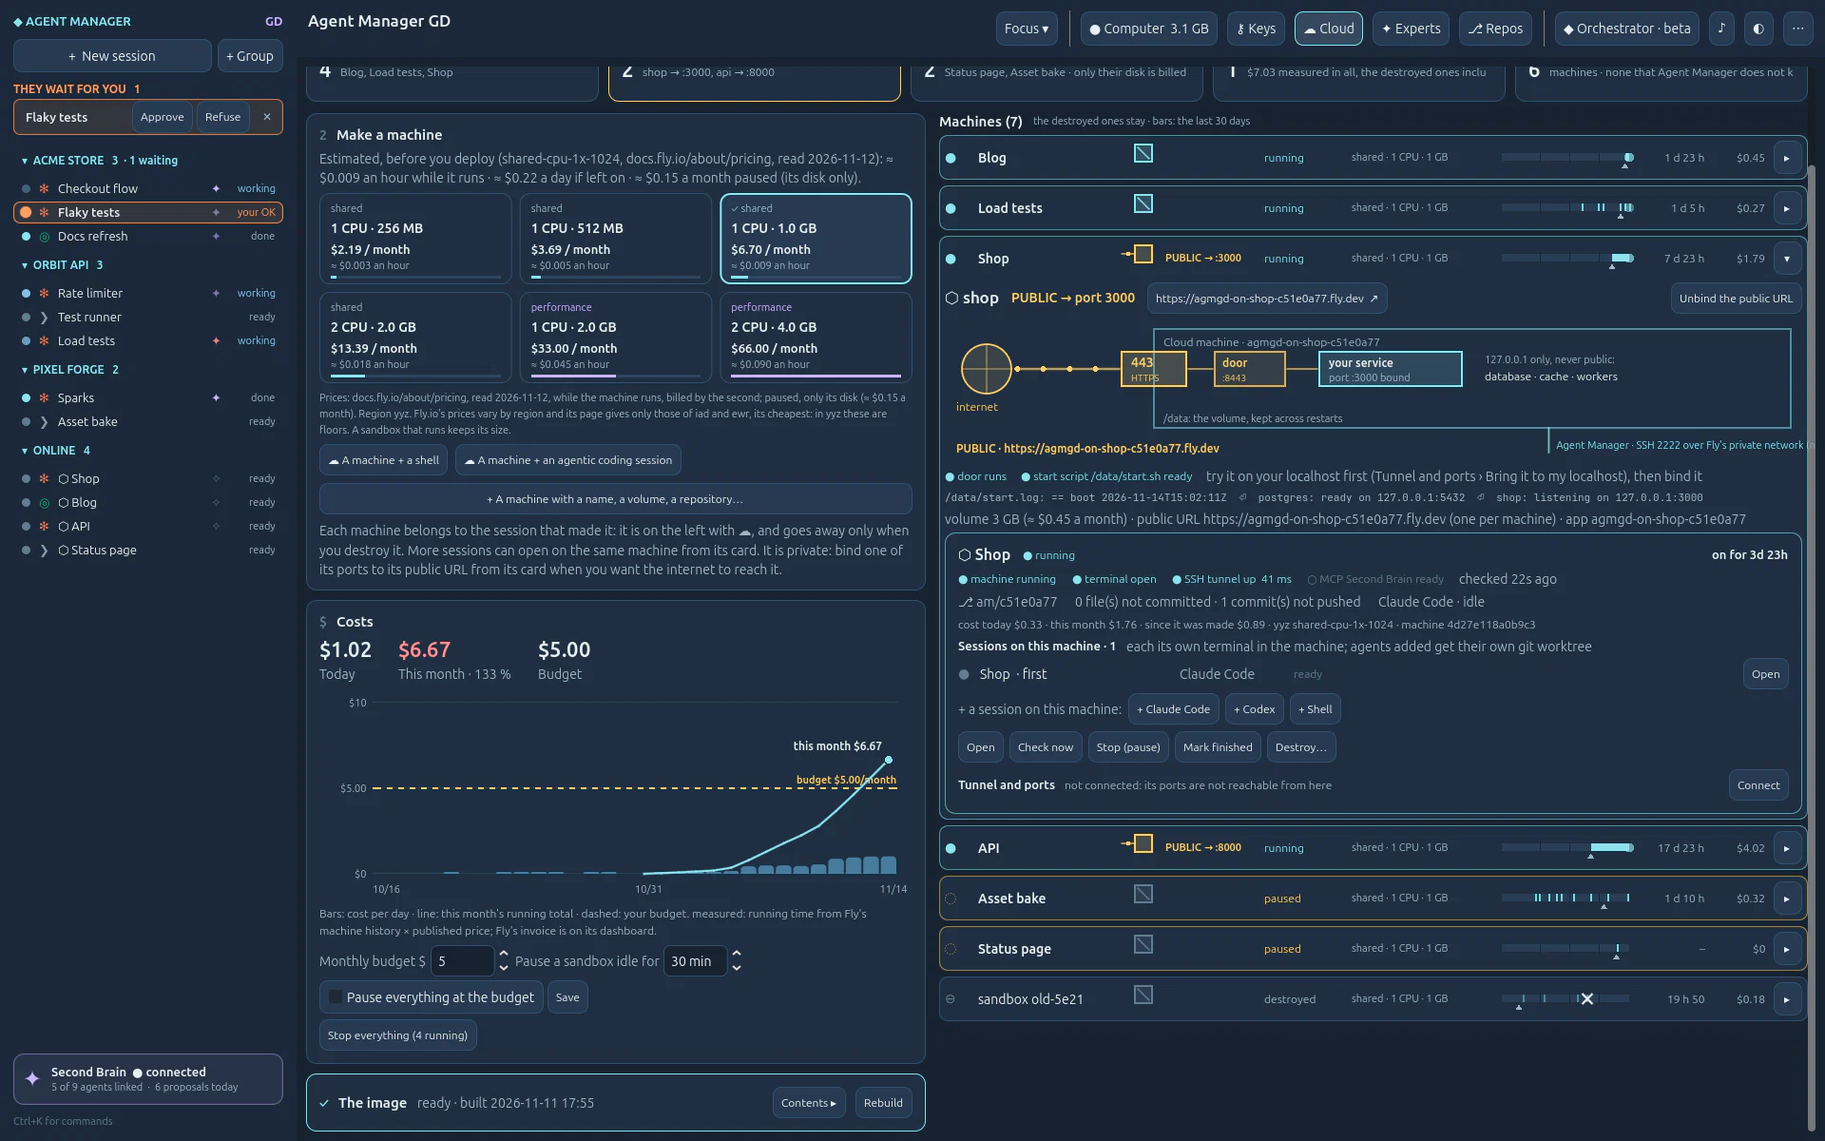
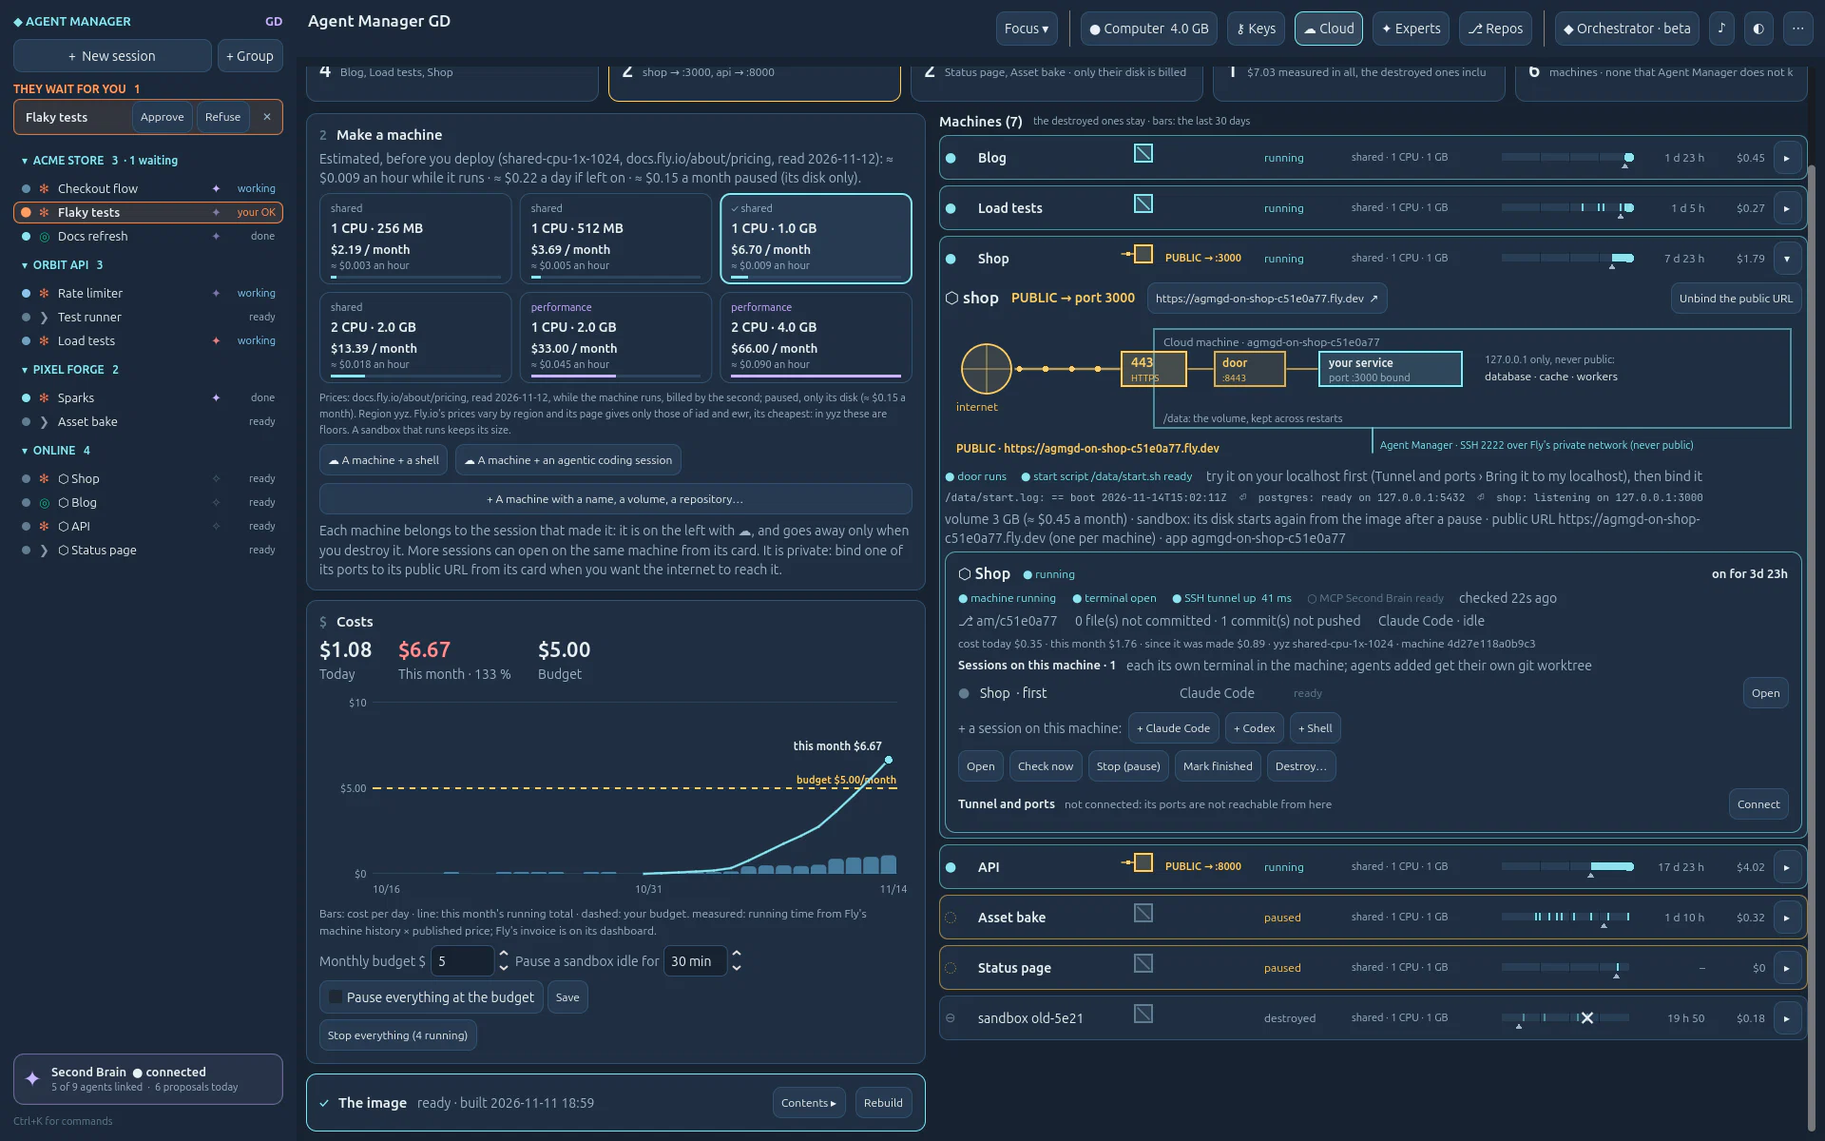
Persistent or sandbox, chosen when a machine is made (owner: « Est-ce que c'est persistant ou c'est sandbox? »)
A persistent machine keeps its whole disk across a pause (Fly.io's --rootfs-persist always); a sandbox starts again
from the image. Tried on Fly.io on 2026-11-14 through the app: the persistent one kept a file across stop/start, the
sandbox lost it.

Claude-Session: https://claude.ai/code/session_011X21YaGPg54jYcFs25zcRq

Changed region(s): [[0.5, 0.4317, 1.0, 0.925], [0.75, 0.37, 0.9688, 0.4008], [0.9375, 0.4625, 1.0, 0.5242]]

diff --git a/public/docs.html b/public/docs.html
@@ -420,7 +420,7 @@
           <tr><td><code>session_status</code></td><td>working, waits, asks, done</td><td>any session</td></tr>
           <tr><td><code>read_screen</code></td><td>what a terminal shows now</td><td>any session</td></tr>
           <tr><td><code>list_machines</code></td><td>every cloud machine: state, sessions, whether a port is bound to its public URL (and which), « yours »</td><td>all machines</td></tr>
-          <tr><td><code>create_machine</code></td><td>asks you for a cloud machine, without a volume (a sandbox) or with one (for a service): repository, size, name, expert, secrets it holds; waits for your answer; its first session is the agent's child</td><td>on your approval</td></tr>
+          <tr><td><code>create_machine</code></td><td>asks you for a cloud machine, without a volume (a sandbox) or with one (for a service), persistent or not: repository, size, name, expert, secrets it holds; waits for your answer; its first session is the agent's child</td><td>on your approval</td></tr>
           <tr><td><code>destroy_machine</code>, <code>expose_machine</code></td><td>ask you to destroy one, or to bind one of its ports (<code>port</code>) to its public URL; wait for your answer</td><td>its own machines, on your approval</td></tr>
           <tr><td><code>stop_machine</code>, <code>start_machine</code>, <code>unexpose_machine</code>, <code>machine_status</code></td><td>pause, start again (within the budget), unbind its public URL, read one machine or a request</td><td>its own machines, at once</td></tr>
           <tr><td><code>list_experts</code></td><td>the experts: what they know, the tool, the secrets they need</td><td>the owner's experts</td></tr>
@@ -463,7 +463,8 @@
             when private), the door 8443, your service and its port, what stays private, and Agent Manager's own way in
             from below. A machine's line shows its gate and <b>PUBLIC → :port</b>; the tiles count the public URLs.</li>
           <li><b>Machines for a service</b>: <b>+ A machine with a name, a volume, a repository…</b> (☁ Cloud, step 2)
-            takes a name (in its address, optional), a volume in GB (0: none), its size (the smallest first, with its
+            takes a name (in its address, optional), a volume in GB (0: none), its disk (<b>Sandbox</b> or
+            <b>Persistent</b>, below), its size (the smallest first, with its
             price), a connected repository (cloned with its own deploy key), an expert, the secrets of Keys › Secrets
             the machine gets, and the tool of its first session. With a volume, <code>/data</code> lasts (about $0.15 per
             GB a month; its work in <code>/data/work</code>), the agent writes <code>/data/start.sh</code>, which runs at
@@ -714,10 +715,13 @@
           past 80 %, no new sandbox at 100 %) and two caps you can turn on that only <i>pause</i>: a sandbox idle for N
           minutes, or all of them once the budget is reached. <b>Stop everything</b> pauses every running sandbox.</p>
         <div class="note warn">Seen on Fly.io on 2026-11-14: a paused machine that starts again has the disk of its
-          image again. What was on it, outside a volume, is gone: the clone, files not committed, programs started. Only
+          image again, unless it is persistent (below). What was on it, outside a volume, is gone: the clone, files not committed, programs started. Only
           a machine's volume (<code>/data</code>) is kept. Commit and push before you pause one, or before an idle pause
           could come. Fly.io can keep the whole disk too (its <code>--rootfs-persist</code> setting, tried once on a test
-          machine: a file stayed across a stop and a start); Agent Manager does not use it yet.</div>
+          machine: a file stayed across a stop and a start). So you choose it when you make a machine (☁ Cloud, step 2):
+          <b>Sandbox</b>, its disk starts again from the image after a pause (the default, and what <i>New session › a
+          cloud sandbox</i> makes); <b>Persistent</b>, its whole disk is kept across pauses. The card says which one a
+          machine is. Fly.io bills a paused machine's disk either way; whether keeping it costs more was not checked.</div>
         <div class="note warn">Agent Manager never destroys a sandbox on its own. <b>Destroy</b> is yours, confirmed,
           after it showed the work not pushed. Machines it does not know are listed, never touched unless you destroy
           them.</div>

diff --git a/engine/sandboxes.py b/engine/sandboxes.py
@@ -94,7 +94,11 @@ ONLINE_PREFIX = "agmgd-on-"
 # private; Online machines made before keep their door 443 → their port.
 DOOR_PORT = 8443
 SANDBOX_PREFIX = "agmgd-sb-"
-DOOR_COLUMNS = [("door", "INTEGER NOT NULL DEFAULT 0"), ("own_app", "INTEGER NOT NULL DEFAULT 0")]
+DOOR_COLUMNS = [("door", "INTEGER NOT NULL DEFAULT 0"), ("own_app", "INTEGER NOT NULL DEFAULT 0"),
+                # Loop 48, after the live test (owner, 2026-11-14: « Est-ce que c'est persistant ou c'est sandbox? C'est
+                # ça la différence »): a persistent machine keeps its whole disk across a stop and a start (Fly.io's
+                # --rootfs-persist always, tried live: a file stayed); a sandbox starts again from the image's disk.
+                ("persist", "INTEGER NOT NULL DEFAULT 0")]
 DOOR_FILES = ("/data/.agmgd/door", "/var/lib/agmgd/door")
 RESERVED_PORTS = (22, 2222, DOOR_PORT, 8765)   # SSH (Fly's, ours), the door itself, the way back to the Brain
 
@@ -347,13 +351,13 @@ class Sandboxes:
             db.execute(f"UPDATE sandboxes SET {sets} WHERE id = ?", (*f.values(), sbid))
 
     # ---------------------------------------------------------------- lifecycle
-    def create(self, session_id: str, size: str = "", repo_id: str = "", name: str = "", volume_gb: int = 0) -> dict:
+    def create(self, session_id: str, size: str = "", repo_id: str = "", name: str = "", volume_gb: int = 0, persist: bool = False) -> dict:
         """A machine (Loop 48: in its own Fly app, its door declared, no public address). With a volume it is a
         machine for a service (kind online: /data kept, its start script at boot, started again by Fly); without, a
         sandbox."""
         if volume_gb:
-            return self.create_online(session_id, name, 0, size, volume_gb, repo_id)
-        return self._new_machine(session_id, "sandbox", name, size, 0, repo_id, 0)
+            return self.create_online(session_id, name, 0, size, volume_gb, repo_id, persist)
+        return self._new_machine(session_id, "sandbox", name, size, 0, repo_id, 0, persist)
 
     @staticmethod
     def check_name(name: str) -> str:
@@ -362,7 +366,8 @@ class Sandboxes:
             raise ValueError("a name of 1 to 30 lowercase letters, digits or dashes (it goes in the address)")
         return name
 
-    def _new_machine(self, session_id: str, kind: str, name: str, size: str, volume_gb: int, repo_id: str, port: int) -> dict:
+    def _new_machine(self, session_id: str, kind: str, name: str, size: str, volume_gb: int, repo_id: str, port: int,
+                     persist: bool = False) -> dict:
         name = self.check_name(name)
         if not 0 <= int(volume_gb) <= 500:
             raise ValueError("a volume of 1 to 500 GB, or none")
@@ -392,15 +397,18 @@ class Sandboxes:
                 more += ["--volume", "data:/data"]
             if kind == "online":
                 more += ["--restart", "always"]   # a service: Fly starts it again
+            if persist:
+                more += ["--rootfs-persist", "always"]   # its whole disk kept across a stop and a start
             machine = self._launch(sbid, app, size, more)
         except Exception:
             self.fly.run("apps", "destroy", app, "--yes", timeout=300)   # nothing half made is left billed
             raise
         with closing(self._db()) as db, db:
             db.execute("INSERT INTO sandboxes (id, session_id, app, machine, region, size, secret, repo_id, workdir, created, "
-                       "kind, name, port, volume_gb, door, own_app) VALUES (?, ?, ?, ?, ?, ?, ?, ?, ?, ?, ?, ?, ?, ?, ?, 1)",
+                       "kind, name, port, volume_gb, door, own_app, persist) VALUES (?, ?, ?, ?, ?, ?, ?, ?, ?, ?, ?, ?, ?, ?, ?, 1, ?)",
                        (sbid, session_id, app, machine, st["region"], size, secrets.token_urlsafe(24), repo_id,
-                        "/data/work" if volume_gb else "/work", time.time(), kind, name, int(port or 0), int(volume_gb), DOOR_PORT))
+                        "/data/work" if volume_gb else "/work", time.time(), kind, name, int(port or 0), int(volume_gb), DOOR_PORT,
+                        int(bool(persist))))
         self.forget_machines()
         return self.get(sbid)
 
@@ -429,12 +437,13 @@ class Sandboxes:
         return machine
 
     # ---------------------------------------------------------------- Loop 41: Online machines
-    def create_online(self, session_id: str, name: str, port: int = 0, size: str = "", volume_gb: int = 1, repo_id: str = "") -> dict:
+    def create_online(self, session_id: str, name: str, port: int = 0, size: str = "", volume_gb: int = 1, repo_id: str = "",
+                      persist: bool = False) -> dict:
         """A machine for a service online, private until a port is bound to its public URL: its own app, a volume on
         /data, its start script at boot. `port`: the port its service will listen on (a hint; bound later)."""
         if not 1 <= int(volume_gb) <= 500:
             raise ValueError("a volume of 1 to 500 GB")
-        return self._new_machine(session_id, "online", name, size, int(volume_gb), repo_id, int(port or 0))
+        return self._new_machine(session_id, "online", name, size, int(volume_gb), repo_id, int(port or 0), persist)
 
     def public_ips(self, sbid: str) -> list[dict]:
         sb = self._online(sbid)
@@ -532,7 +541,7 @@ class Sandboxes:
     def online_info(self, sbid: str) -> dict:
         sb = self.get(sbid)
         return {"id": sbid, "name": sb.get("name", ""), "app": sb["app"], "port": sb.get("port", 0), "exposed": bool(sb.get("exposed")),
-                "door": self.door_kind(sb),
+                "door": self.door_kind(sb), "persist": bool(sb.get("persist")),
                 "url": f"https://{sb['app']}.fly.dev" if sb.get("exposed") else "", "volume_gb": sb.get("volume_gb", 0),
                 "volume_month": round(VOLUME_GB_MONTH * int(sb.get("volume_gb") or 0), 2)}
 

diff --git a/engine/sessions.py b/engine/sessions.py
@@ -1255,7 +1255,7 @@ class Sessions:
             threading.Thread(target=close, daemon=True).start()
 
     def create_sandbox_session(self, name: str, tool: str, grp: str, repo: str, brain: bool, on: str = "", parent: str = "",
-                               secrets: list | None = None, expert: str = "", size: str = "") -> dict:
+                               secrets: list | None = None, expert: str = "", size: str = "", persist: bool = False) -> dict:
         if tool not in TOOLS:
             raise ValueError(f"unknown tool: {tool}")
         if not NAME_OK.match(name or ""):
@@ -1268,7 +1268,7 @@ class Sessions:
         self.store.update(rec["id"], secrets=json.dumps(self._clean_secrets(secrets or [])), expert=expert,
                           **({"level": self.level_for("", grp, parent)} if parent else {}))
         try:
-            sb = self.sandboxes.create(rec["id"], size=size, repo_id=repo)
+            sb = self.sandboxes.create(rec["id"], size=size, repo_id=repo, persist=persist)
         except Exception:
             self.store.delete(rec["id"])
             raise
@@ -1283,7 +1283,7 @@ class Sessions:
 
     def create_online_session(self, name: str, tool: str, grp: str, port: int, volume_gb: int = 1, size: str = "",
                               repo: str = "", brain: bool = True, secrets: list | None = None, expert: str = "",
-                              parent: str = "") -> dict:
+                              parent: str = "", persist: bool = False) -> dict:
         """Loop 41: an Online machine (its own Fly app, a volume, 443 toward `port` once exposed) and its first
         session, the one that works on the service. Private until the owner exposes it."""
         if tool not in TOOLS:
@@ -1301,9 +1301,9 @@ class Sessions:
             self.store.update(rec["id"], secrets=json.dumps(self._clean_secrets(secrets)))
         try:
             if int(volume_gb):
-                sb = self.sandboxes.create_online(rec["id"], name, int(port or 0), size, int(volume_gb), repo)
+                sb = self.sandboxes.create_online(rec["id"], name, int(port or 0), size, int(volume_gb), repo, persist)
             else:
-                sb = self.sandboxes._new_machine(rec["id"], "sandbox", name, size, 0, repo, int(port or 0))
+                sb = self.sandboxes._new_machine(rec["id"], "sandbox", name, size, 0, repo, int(port or 0), persist)
         except Exception:
             self.store.delete(rec["id"])
             raise
@@ -1398,7 +1398,7 @@ class Sessions:
             if not NAME_OK.match(name):
                 raise ValueError("a name of 1 to 60 characters")
             p = {"kind": mk, "name": name, "tool": tool, "size": size, "repo": repo, "repo_name": repo_name, "expert": expert,
-                 "secrets": want, "month": PRICES[size]}
+                 "secrets": want, "month": PRICES[size], "persist": bool(params.get("persistent"))}
             if mk == "online":
                 p.update(online_name=self.sandboxes.check_name(str(params.get("online_name") or "")[:30]),
                          port=int(params.get("port") or 0), volume_gb=int(params.get("volume_gb", 1)))
@@ -1466,10 +1466,12 @@ class Sessions:
                 if p["kind"] == "online":
                     # an Online machine's name is in its address: the session is named after it
                     d = self.create_online_session(p["online_name"], p["tool"], "", int(p["port"]), int(p["volume_gb"]), p["size"],
-                                                   p.get("repo", ""), True, p.get("secrets") or [], p.get("expert", ""), parent=sid)
+                                                   p.get("repo", ""), True, p.get("secrets") or [], p.get("expert", ""), parent=sid,
+                                                   persist=bool(p.get("persist")))
                 else:
                     d = self.create_sandbox_session(p["name"], p["tool"], "", p.get("repo", ""), True, parent=sid,
-                                                    secrets=p.get("secrets") or [], expert=p.get("expert", ""), size=p["size"])
+                                                    secrets=p.get("secrets") or [], expert=p.get("expert", ""), size=p["size"],
+                                                    persist=bool(p.get("persist")))
                 sb = self.sandboxes.by_session(d["id"]) or {}
                 result = {"session": d["id"], "sandbox": sb.get("id", ""), "kind": p["kind"]}
             elif req["kind"] == "destroy":

diff --git a/tests/python/test_sandboxes.py b/tests/python/test_sandboxes.py
@@ -584,6 +584,26 @@ class SandboxesTest(unittest.TestCase):
         self.s.sandboxes.destroy(sb["id"], True)
         self.assertIn(("apps", "destroy", sb["app"], "--yes"), self.fly.calls)
 
+    def test_persistent_or_sandbox_is_chosen_at_the_making(self):
+        """Owner, 2026-11-14: « Est-ce que c'est persistant ou c'est sandbox? C'est ça la différence. »"""
+        self.s.sandboxes.prepare()
+        plain = self.s.sandboxes.by_session(self.s.create_online_session("", "shell", "", 0, volume_gb=0)["id"])
+        kept = self.s.sandboxes.by_session(self.s.create_online_session("keep", "shell", "", 0, volume_gb=0, persist=True)["id"])
+        served = self.s.sandboxes.by_session(self.s.create_online_session("svc", "shell", "", 0, volume_gb=1, persist=True)["id"])
+
+        def run_of(sb):
+            return next(c for c in self.fly.calls if c[:2] == ("machine", "run") and sb["app"] in c)
+        self.assertNotIn("--rootfs-persist", run_of(plain))                       # a sandbox: the image's disk again
+        for sb in (kept, served):
+            r = run_of(sb)
+            self.assertEqual(r[r.index("--rootfs-persist") + 1], "always")
+        self.assertEqual((plain["persist"], kept["persist"], served["persist"]), (0, 1, 1))
+        self.assertTrue(self.s.sandboxes.online_info(kept["id"])["persist"])
+        lead = self._lead()                                                       # an agent asks for one, the owner sees it
+        req = self.s.machine_request(lead, "create", {"kind": "sandbox", "persistent": True})
+        self.assertIn("persistent", req["what"])
+        self.assertTrue(self.s.machine_requests.get(req["id"])["params"]["persist"])
+
     def test_binding_a_port_sets_the_door_then_gives_addresses_live(self):
         from engine.sandboxes import door_command
         self.s.sandboxes.prepare()

diff --git a/engine/mcp_agents.py b/engine/mcp_agents.py
@@ -48,6 +48,7 @@ TOOLS = [
                      "online_name": {"type": "string", "description": "its name in its address, lowercase (optional)"},
                      "port": {"type": "integer", "description": "the port its service will listen on inside (a hint)"},
                      "volume_gb": {"type": "integer"}, "expert": {"type": "string"},
+                     "persistent": {"type": "boolean", "description": "true: its whole disk is kept across a pause; false (default): a sandbox, its disk starts again from the image"},
                      "secrets": {"type": "array", "items": {"type": "string"}, "description": "names of secrets your session holds; never values"},
                      "timeout_s": {"type": "integer", "minimum": 10, "maximum": 900}}, "required": ["kind"]}},
     {"name": "machine_status", "description": "One machine as list_machines shows it, or a request's answer (request: its id).",
@@ -152,7 +153,7 @@ def machine_tool(eng, name, a):
     if name in ("stop_machine", "start_machine", "unexpose_machine"):
         return eng.call("POST", f"/sessions/{me}/machines/{a.get('id', '')}/{name.split('_')[0]}", {})
     if name == "create_machine":
-        params = {k: a[k] for k in ("kind", "name", "tool", "repo", "size", "online_name", "port", "volume_gb", "expert", "secrets") if k in a}
+        params = {k: a[k] for k in ("kind", "name", "tool", "repo", "size", "online_name", "port", "volume_gb", "expert", "secrets", "persistent") if k in a}
         req = eng.call("POST", f"/sessions/{me}/machine-requests", {"kind": "create", "params": params})
         return _wait_request(eng, req, a.get("timeout_s", 300))
     kind = {"destroy_machine": "destroy", "expose_machine": "expose"}[name]

diff --git a/engine/api.py b/engine/api.py
@@ -269,7 +269,8 @@ def make_handler(sessions: Sessions, token: str):
                                                                            str(b.get("group", "")), int(b.get("port", 0) or 0),
                                                                            int(b.get("volume_gb", 1) or 0), str(b.get("size", "")),
                                                                            str(b.get("repo", "")), bool(b.get("brain", True)),
-                                                                           b.get("secrets") or [], str(b.get("expert", ""))))
+                                                                           b.get("secrets") or [], str(b.get("expert", "")),
+                                                                           persist=bool(b.get("persistent", False))))
                 if parts == ["sandboxes", "size"] and method == "POST":   # the size the next sandboxes get
                     return self._reply(200, sessions.sandboxes.choose_size(str(self._body().get("size", ""))))
                 if parts == ["sandboxes", "budget"] and method == "POST":

diff --git a/engine/machine_requests.py b/engine/machine_requests.py
@@ -90,6 +90,7 @@ def describe(req: dict) -> str:
     p = req["params"]
     if req["kind"] == "create":
         what = "an Online machine (it can face the internet once exposed)" if p.get("kind") == "online" else "a private cloud sandbox"
+        what += ", persistent (its disk kept across a pause)" if p.get("persist") else ""
         extra = []
         if p.get("repo_name"):
             extra.append("repository " + p["repo_name"])

diff --git a/CHANGELOG.md b/CHANGELOG.md
@@ -5,6 +5,11 @@ Newest first.
 
 ## Unreleased: alpha
 
+### Persistent or sandbox, chosen at the making (after Loop 48)
+- A new machine's form (☁ Cloud, step 2) asks for its disk: **Sandbox** (it starts again from the image after a
+  pause, the default) or **Persistent** (its whole disk is kept across pauses, with Fly.io's root disk persistence).
+  The card says which one it is; an agent's `create_machine` takes `persistent`.
+
 ### One Cloud page, a public URL per machine (Loop 48)
 - **☁ Cloud** replaces the two pages ☁ Sandboxes and ⬡ Online: every cloud machine (ours, on Fly.io) on one page,
   its line showing its gate and **PUBLIC → :port** when a port of it is public. A tile counts the public URLs.
